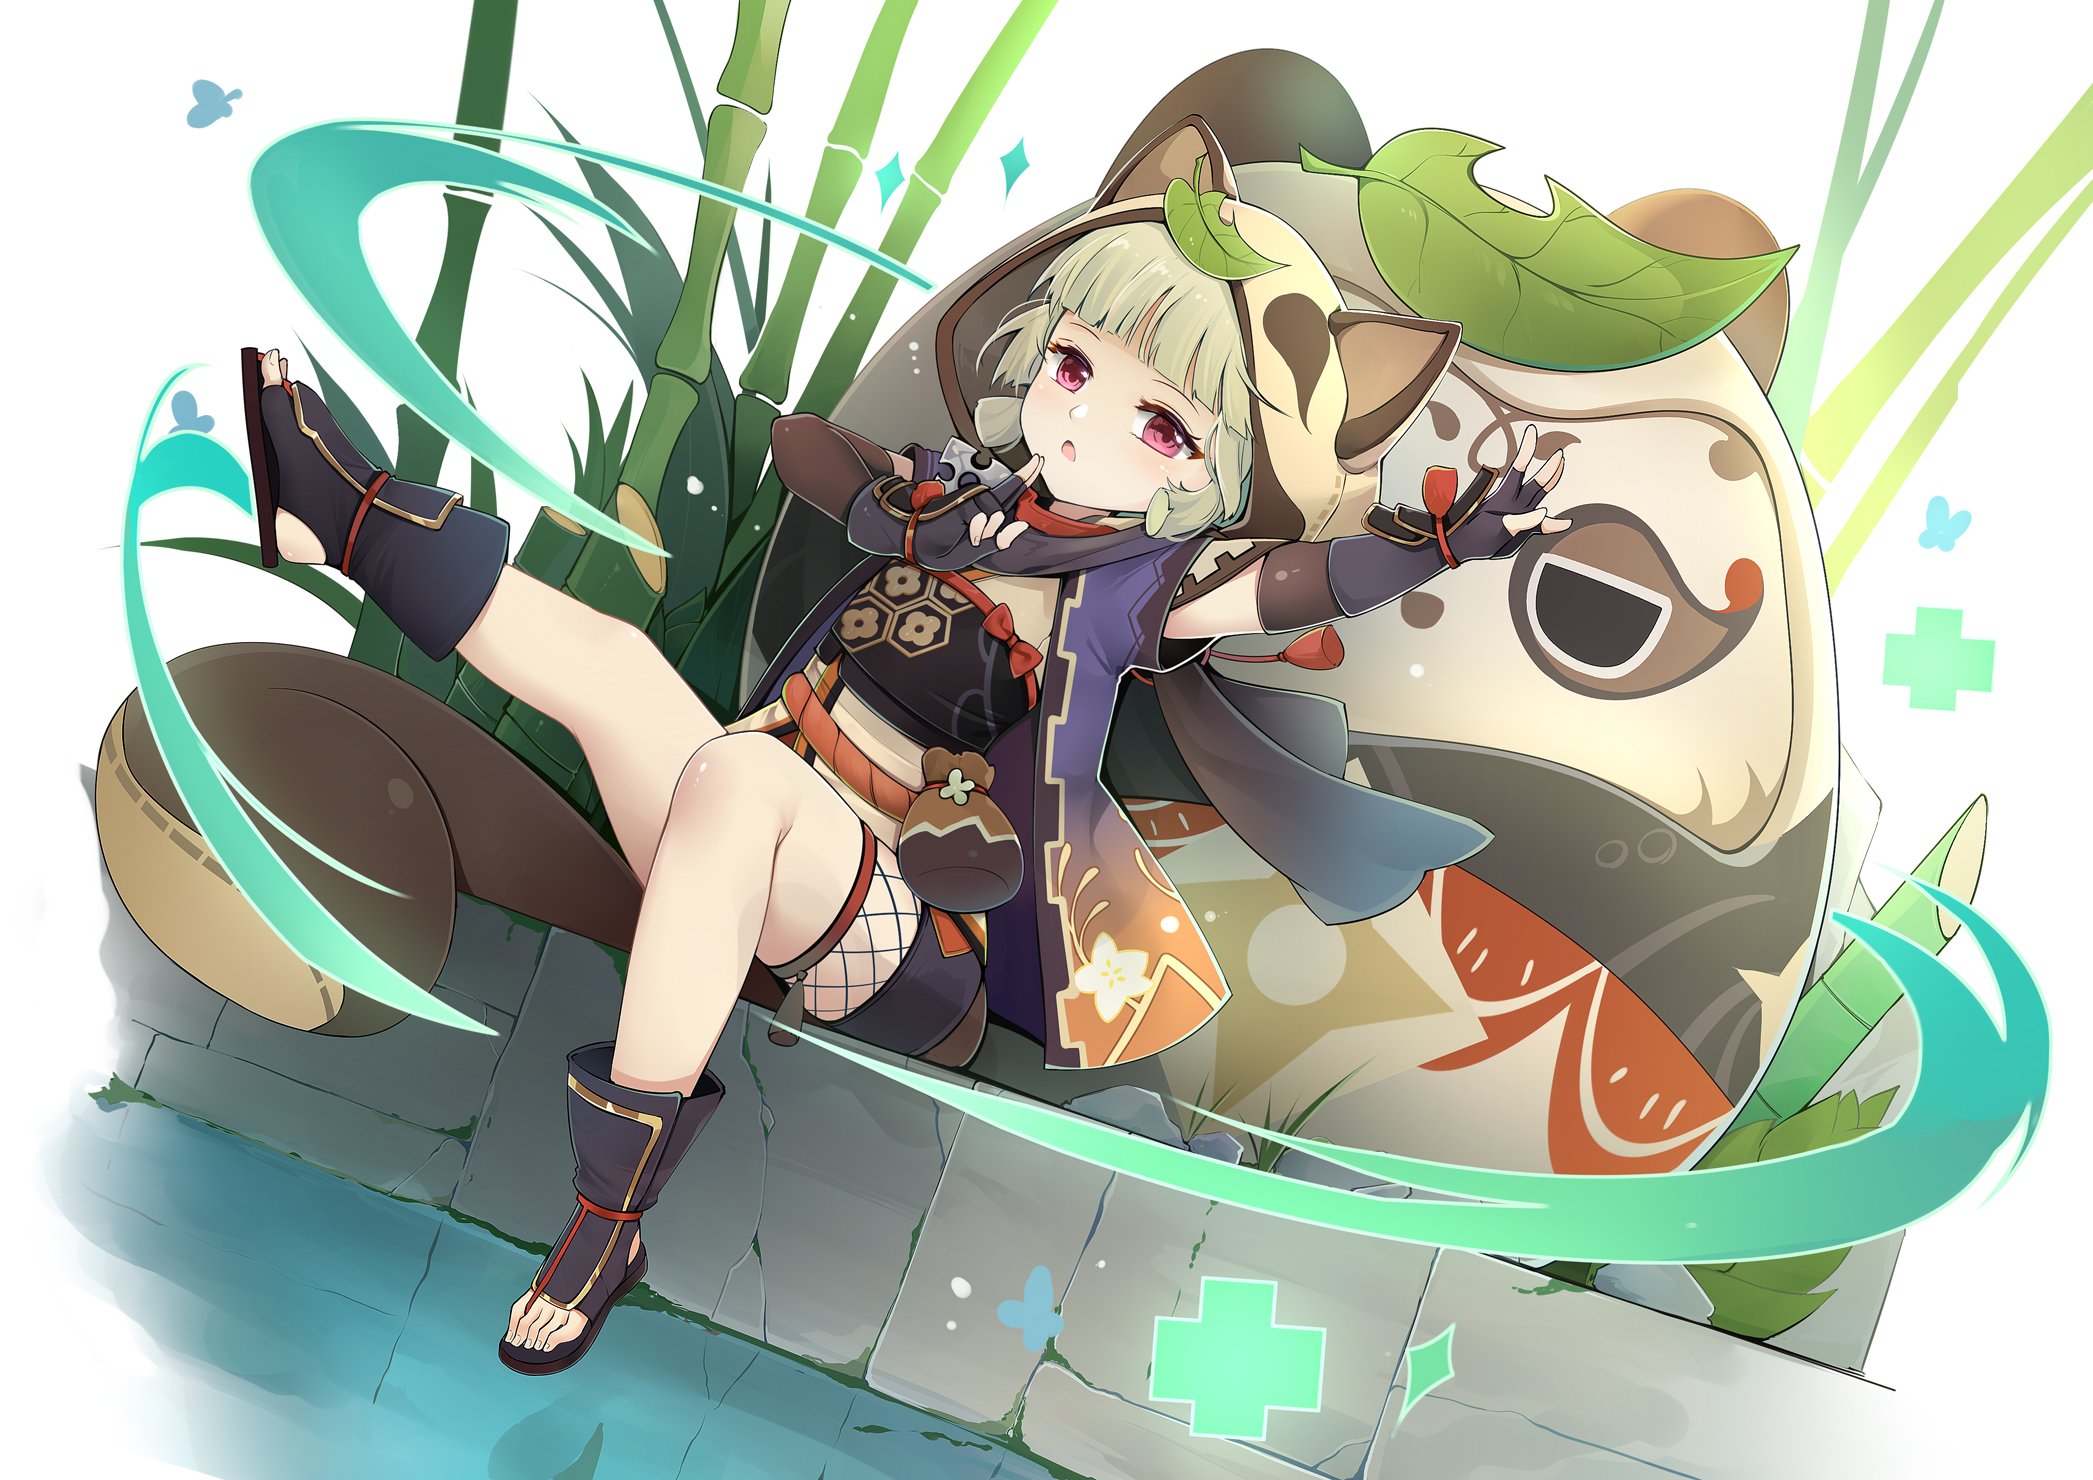
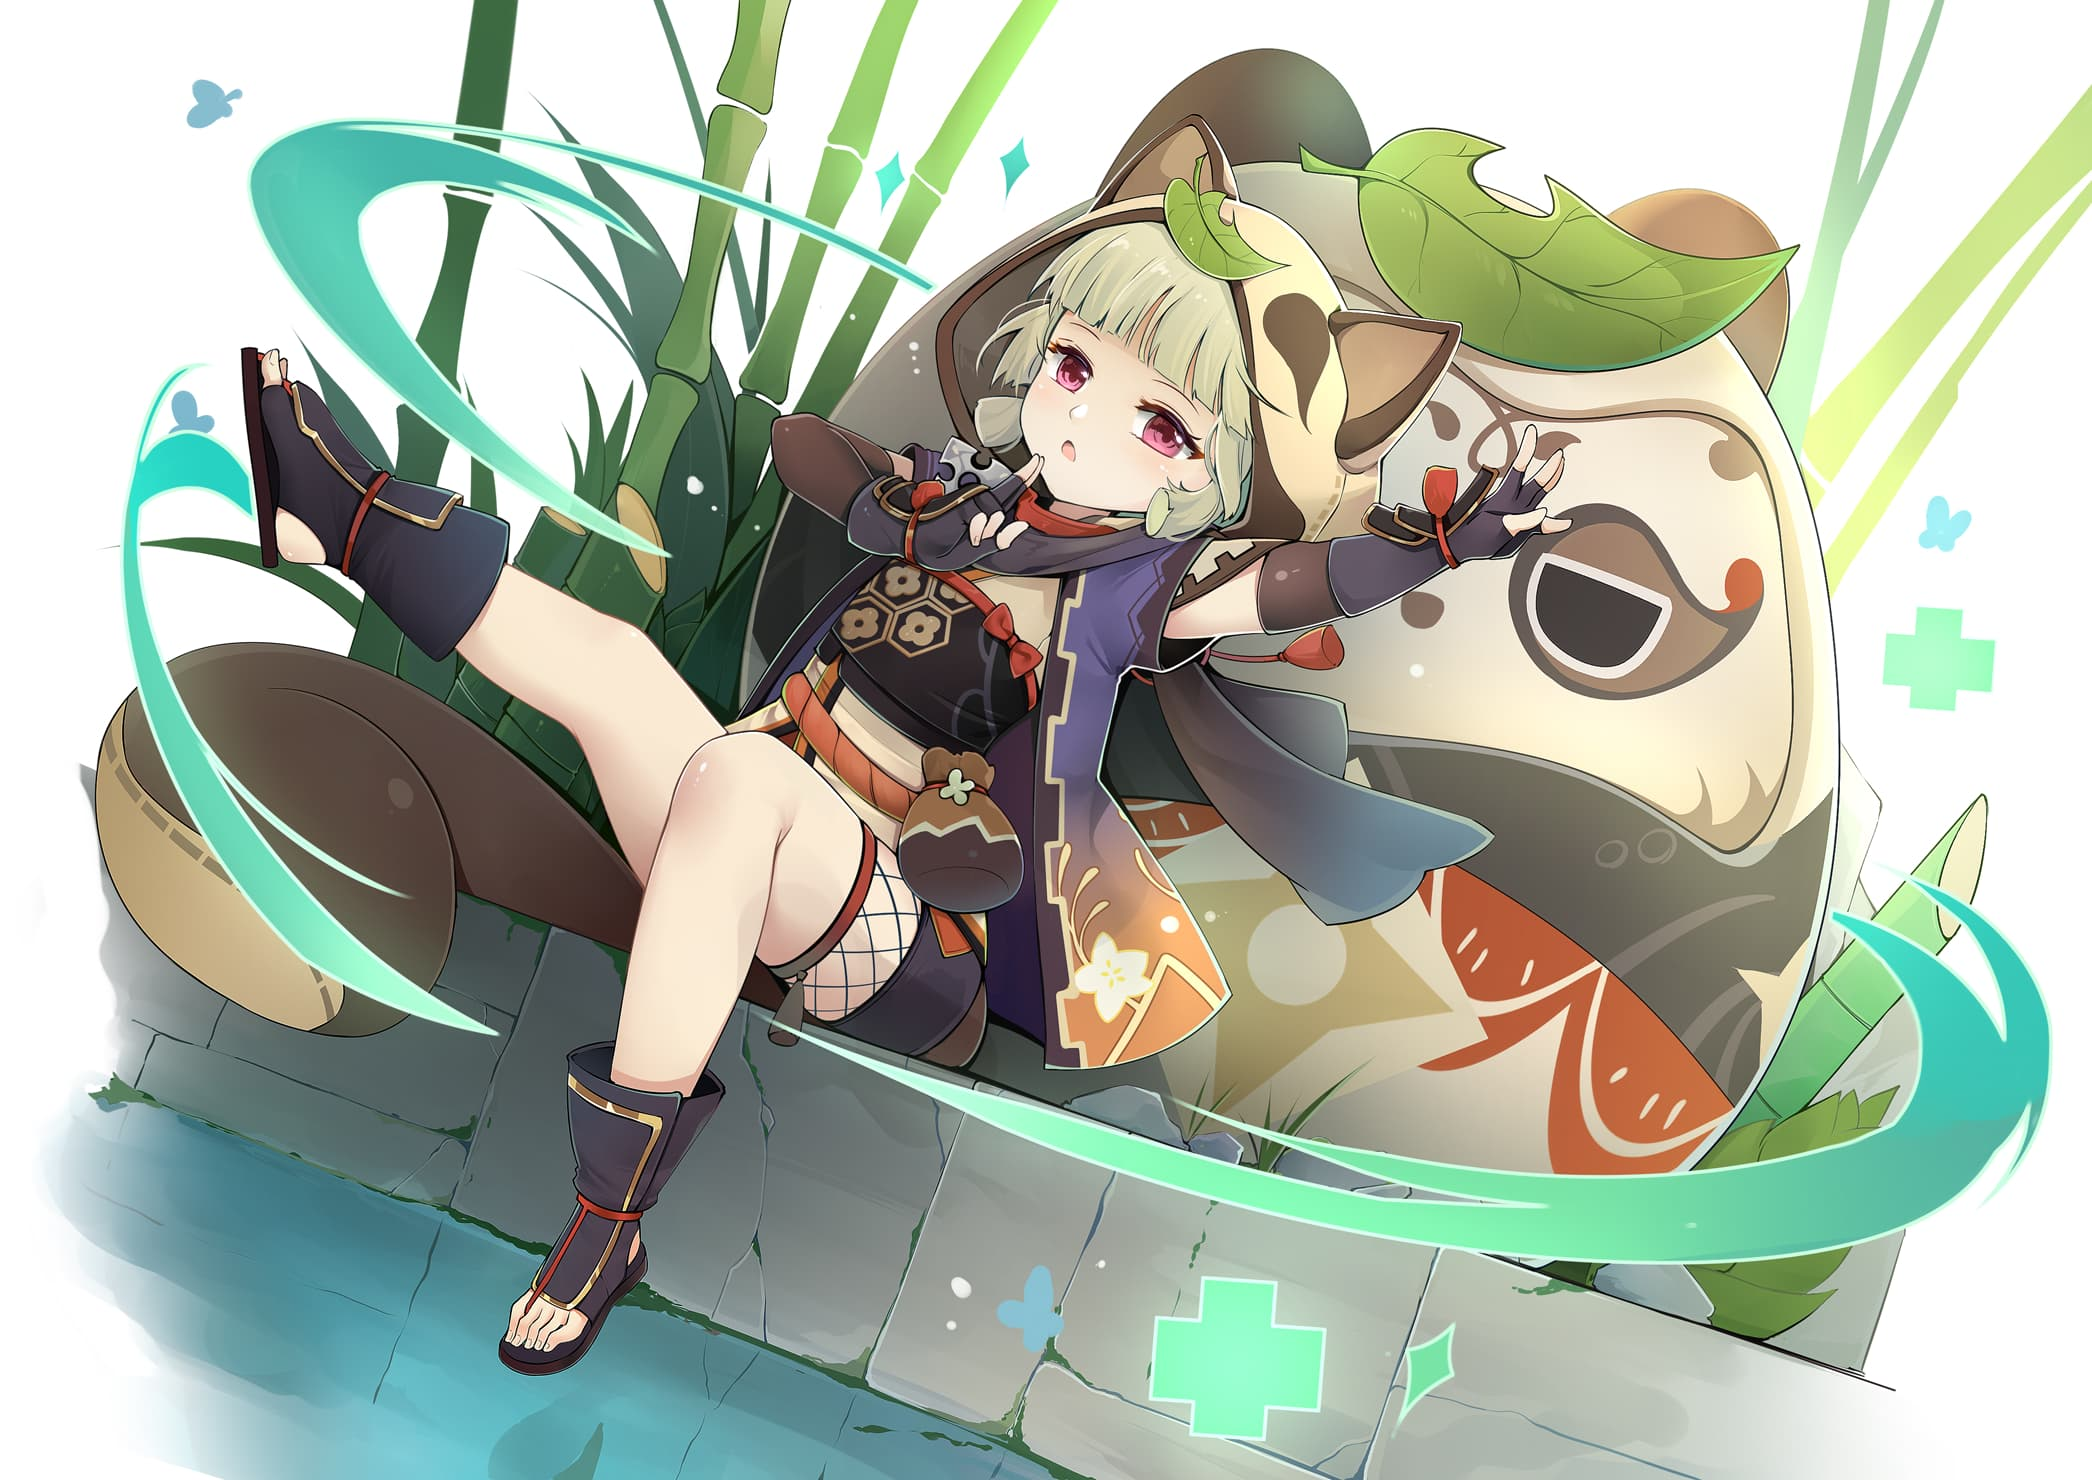
chore: images with smaller size

diff --git a/readme.md b/readme.md
@@ -2,10 +2,10 @@
 
 ## Screenshots
 
-![](./imgs/screenshots/img_1.png)
-![](./imgs/screenshots/img_2.png)
-![](./imgs/screenshots/img_3.png)
-![](./imgs/screenshots/img_4.png)
+![](./imgs/screenshots/img_1.jpeg)
+![](./imgs/screenshots/img_2.jpeg)
+![](./imgs/screenshots/img_3.jpeg)
+![](./imgs/screenshots/img_4.jpeg)
 
 ## Installation
 
